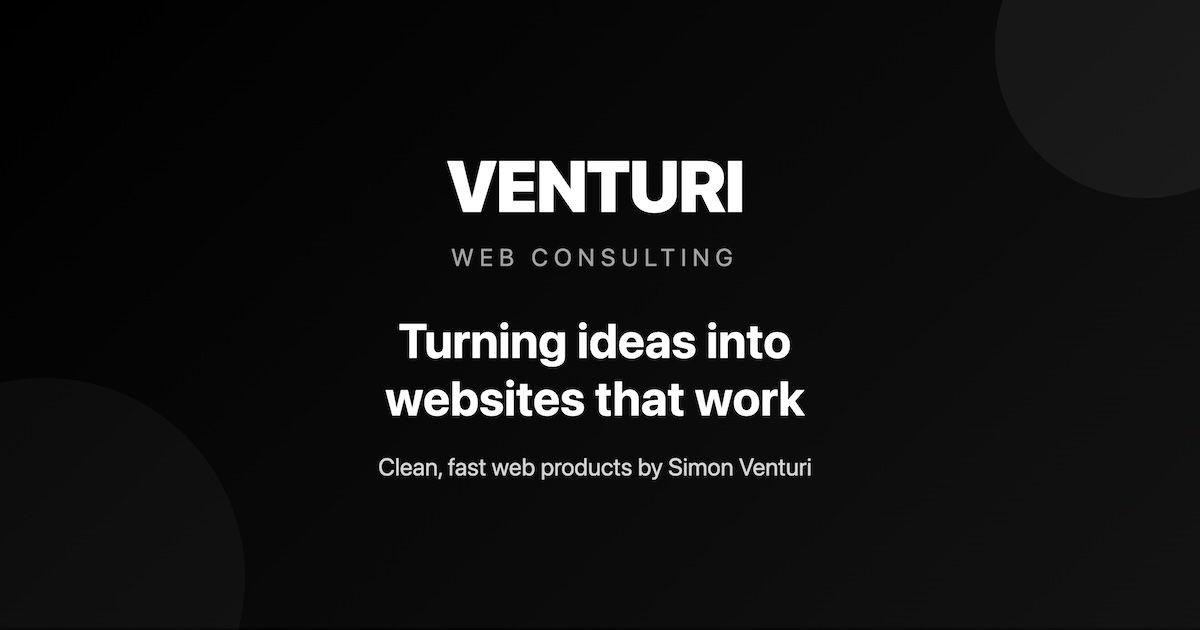
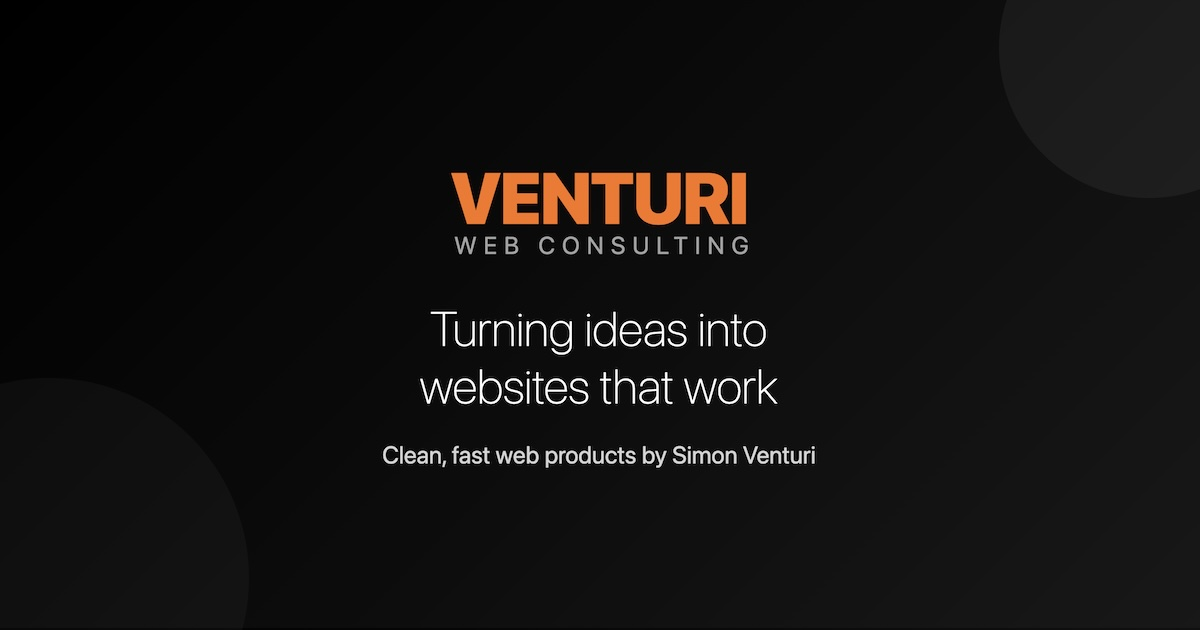
og-image-template.html updated and og-image.jpg recreated.

Changed region(s): [[0.3083, 0.4825, 0.6783, 0.6635], [0.37, 0.2413, 0.6475, 0.4222], [0.3083, 0.6937, 0.6783, 0.754]]

diff --git a/og-image-template.html b/og-image-template.html
@@ -30,21 +30,22 @@
             font-size: 72px;
             font-weight: 900;
             letter-spacing: -2px;
-            margin-bottom: 16px;
-            color: #ffffff;
+            margin-bottom: -8px;
+            color: #f97316;
         }
 
         .subtitle {
             font-size: 24px;
-            letter-spacing: 6px;
+            letter-spacing: 7px;
             color: #a3a3a3;
+            margin-left: 12px;
             margin-bottom: 40px;
             font-weight: 400;
         }
 
         .tagline {
             font-size: 48px;
-            font-weight: 700;
+            font-weight: 100;
             line-height: 1.2;
             margin-bottom: 24px;
             color: #ffffff;
